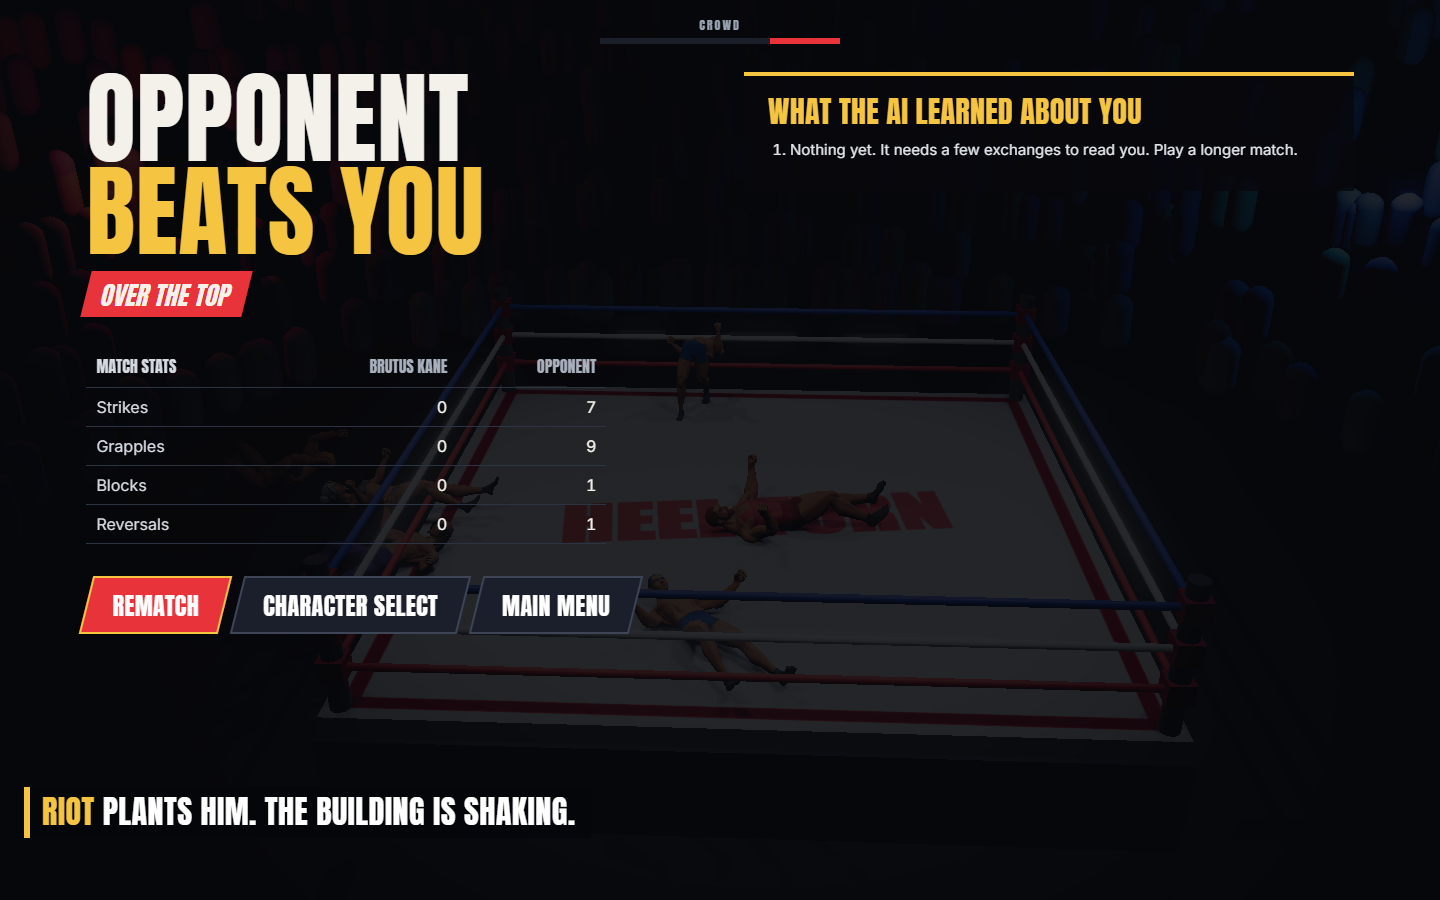
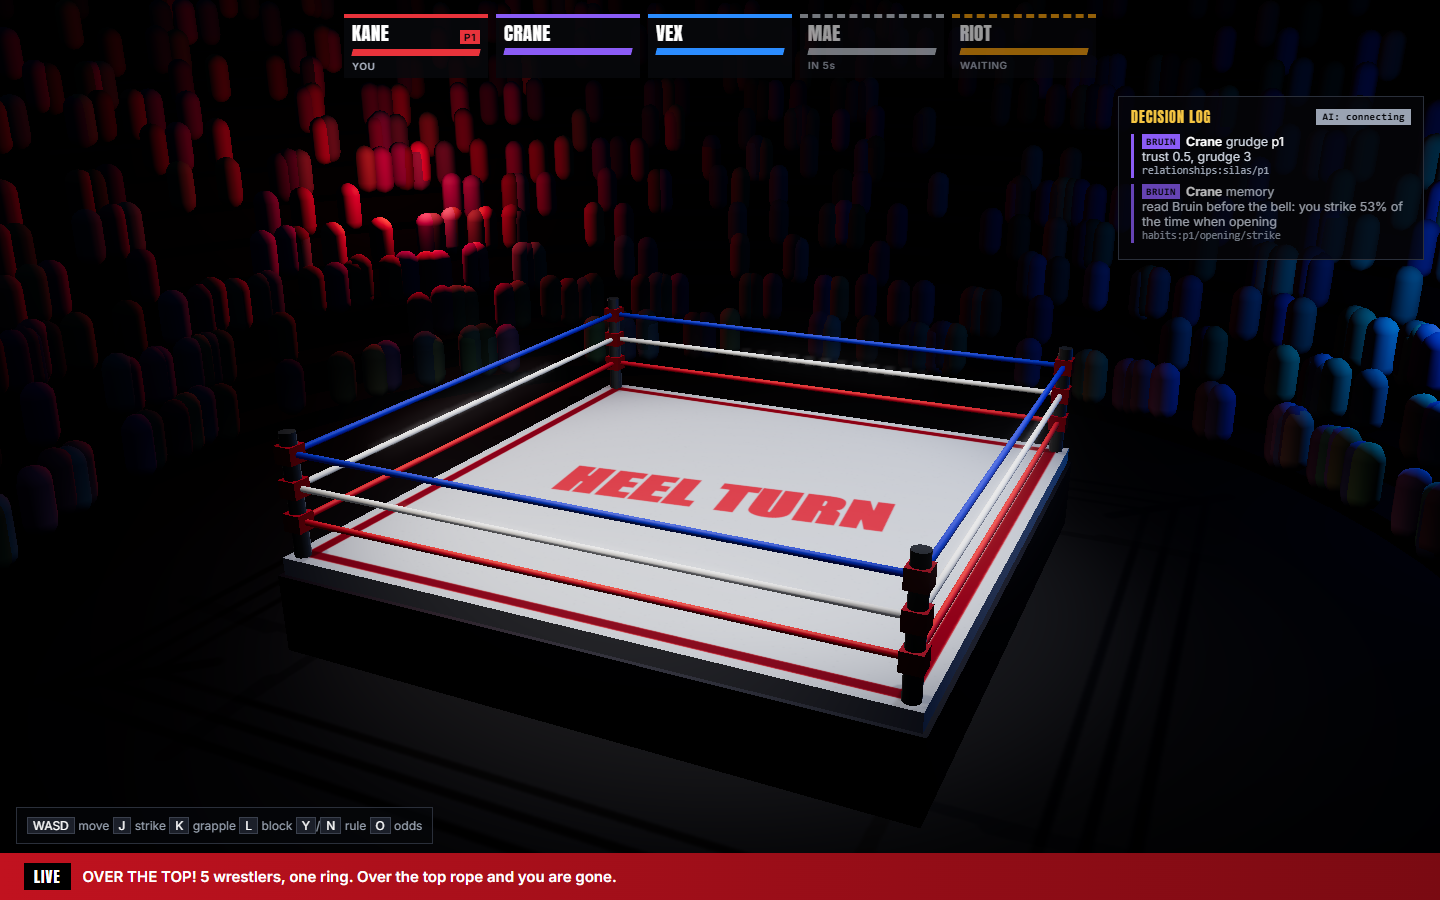
fix(royal): Kid Riot built from the character-bible asset shape on main

diff --git a/game/royal-client.js b/game/royal-client.js
@@ -10,9 +10,9 @@ import { ROSTER_ASSETS } from './shared/roster-assets.js';
 import { adoptBand, snapshotRoyal } from './shared/royal.js';
 
 // The fifth body (Kid Riot): registered here so shared/roster-assets.js stays the attire lane's file.
-ROSTER_ASSETS.riot ||= {
-  body: 'male', hair: ['Hair_Buzzed'], hairColor: 0xf59e0b, scale: [1.02, 0.98, 1.02],
-  skin: 0xc68a62, trunks: 0xd97706, top: null, legs: null, boots: 0x3a2206,
+ROSTER_ASSETS.riot ||= { // Vex's build and gear, recut in orange: the fifth body for a full card
+  ...ROSTER_ASSETS.vex, hairColor: 0xf59e0b, scale: [1.04, 0.98, 1.04],
+  palette: { ...ROSTER_ASSETS.vex.palette, ui: 0xf59e0b, primary: 0xd97706, secondary: 0x2a1604, accent: 0xfff1d6, skin: 0xc68a62 },
 };
 
 const ODDS_ID = { kane: 'brutus' }; // Bruin roster ids
